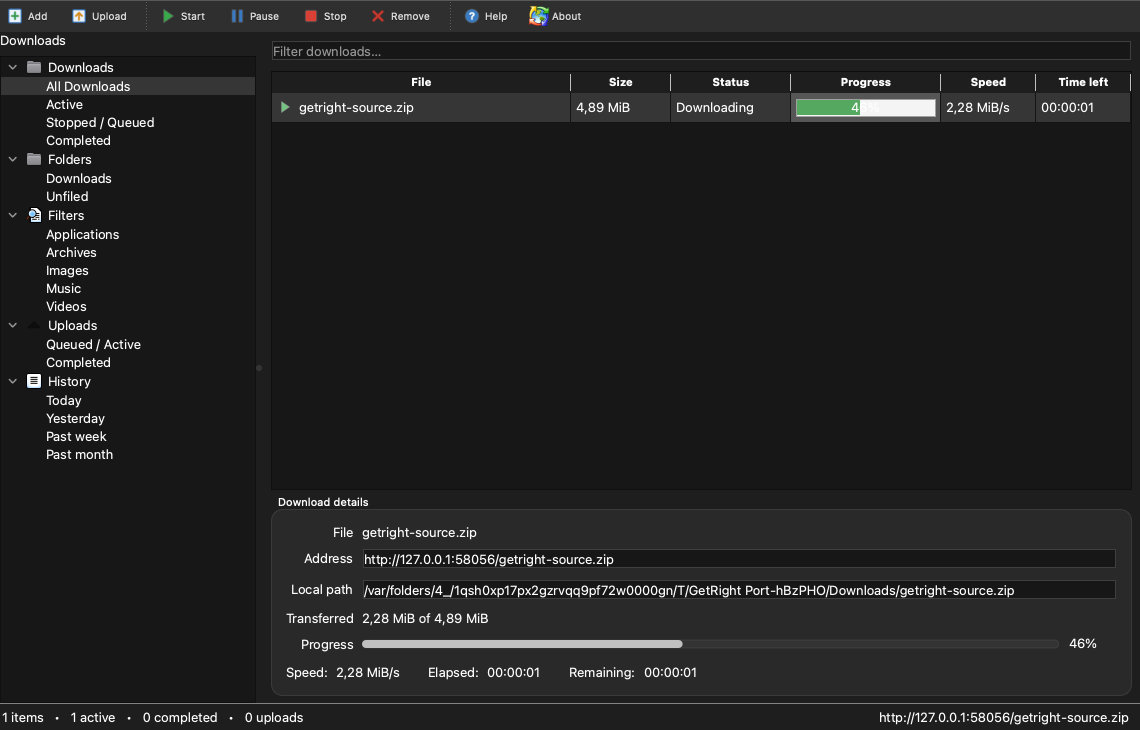
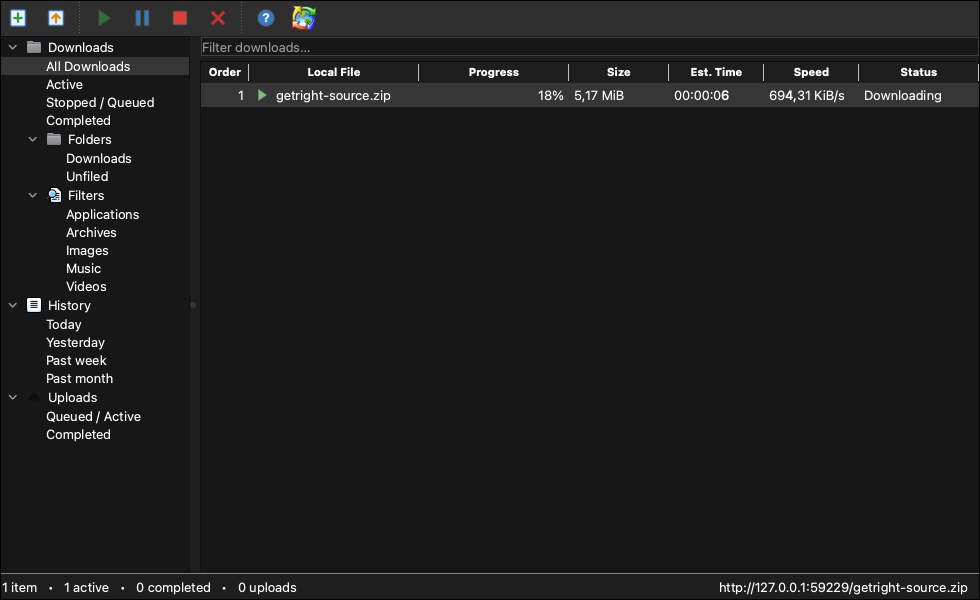
Document transfer behavior and refresh the interface gallery
Explain validated resume, multiple selection, storage recovery, installation, and completion
tips. Show current bordered screenshots and a live download GIF in the README and website,
with a still-image fallback for reduced motion.

diff --git a/site/index.html b/site/index.html
@@ -56,7 +56,7 @@
             <span class="window-dots"><i></i><i></i><i></i></span>
             <span>GetRight Port · macOS</span><span class="frame-live">LIVE TRANSFER</span>
           </div>
-          <img src="assets/port-light.png" alt="GetRight Port downloading a source archive on macOS in its native light appearance" width="1140" height="730" fetchpriority="high">
+          <img src="assets/port-light.png" alt="GetRight Port downloading a source archive on macOS in its native light appearance" width="980" height="600" fetchpriority="high">
         </figure>
         <div class="time-ticket"><span class="ticket-arrow">↳</span>
           <div><strong>Same little icon.</strong><span>A different era.</span></div>
@@ -126,22 +126,28 @@
           Native macOS controls, your choice of light or dark, and the details that matter.</p>
       </div>
       <div class="gallery-tabs" role="group" aria-label="Choose an application screenshot">
-        <button type="button" class="selected" data-view="light" aria-pressed="true">macOS · Light</button>
+        <button type="button" class="selected" data-view="download" aria-pressed="true">Live download</button>
+        <button type="button" data-view="light" aria-pressed="false">macOS · Light</button>
         <button type="button" data-view="dark" aria-pressed="false">macOS · Dark</button>
+        <button type="button" data-view="classic" aria-pressed="false">Classic style</button>
         <button type="button" data-view="progress" aria-pressed="false">Download details</button>
+        <button type="button" data-view="finished" aria-pressed="false">Download finished</button>
       </div>
       <figure class="gallery">
-        <a id="gallery-link" href="assets/port-light.png" target="_blank" rel="noopener">
-          <img id="gallery-image" src="assets/port-light.png" alt="GetRight Port in the native macOS light appearance, downloading a source archive" width="1140" height="730" loading="lazy">
+        <a id="gallery-link" href="assets/port-download.gif" target="_blank" rel="noopener">
+          <picture>
+            <source id="gallery-static" media="(prefers-reduced-motion: reduce)" srcset="assets/port-progress.png">
+            <img id="gallery-image" src="assets/port-download.gif" alt="A real GetRight download advancing from start to finish with a live progress bar" width="470" height="205" style="max-width:470px;aspect-ratio:470 / 205" loading="lazy">
+          </picture>
         </a>
-        <figcaption><span id="gallery-caption">Native macOS, light theme. Click the image to see it full size.</span>
-          <span class="gallery-counter" id="gallery-counter">01 / 03</span></figcaption>
+        <figcaption><span id="gallery-caption">A real HTTP download, from start to finish. The animation loops.</span>
+          <span class="gallery-counter" id="gallery-counter">01 / 06</span></figcaption>
       </figure>
       <div class="feature-list">
         <div><span>01</span><h3>Pick up where you paused.</h3>
           <p>HTTP/HTTPS downloads, partial files, pause and resume, and a persistent queue.</p></div>
         <div><span>02</span><h3>Keep the details in sight.</h3>
-          <p>Progress, speed, remaining time, destination, and history. One double-click away.</p></div>
+          <p>Progress, speed, remaining time, destination, and history. One click away.</p></div>
         <div><span>03</span><h3>Let it work in the background.</h3>
           <p>A familiar menu bar icon, live speeds, and controls to pause or resume all transfers.</p></div>
         <div><span>04</span><h3>Make it feel like yours.</h3>

diff --git a/site/app.js b/site/app.js
@@ -4,23 +4,44 @@
 // Description: Screenshot gallery and published release package list.
 
 const views = {
+  download: {
+    file: "port-download.gif",
+    staticFile: "port-progress.png",
+    alt: "A real GetRight download advancing from start to finish with a live progress bar",
+    caption: "A real HTTP download, from start to finish. The animation loops.",
+    counter: "01 / 06",
+    width: 470,
+    height: 205,
+  },
   light: {
     file: "port-light.png",
     alt: "GetRight Port in the native macOS light appearance during a live download",
     caption: "Native macOS, light theme. Click the image to see it full size.",
-    counter: "01 / 03",
+    counter: "02 / 06",
   },
   dark: {
     file: "port-dark.png",
     alt: "GetRight Port in the native macOS dark appearance during a live download",
     caption: "Native macOS, dark theme. The same queue, a different appearance.",
-    counter: "02 / 03",
+    counter: "03 / 06",
+  },
+  classic: {
+    file: "port-classic.png",
+    alt: "GetRight Port with its classic Windows XP style, ordered file list, and icon toolbar",
+    caption: "Classic style on macOS, inspired by the original Download Status window.",
+    counter: "04 / 06",
+  },
+  finished: {
+    file: "port-finished.png",
+    alt: "GetRight download completion tip with file, time, speed, and folder controls",
+    caption: "Download finished. The tip appears near the menu bar icon without taking focus.",
+    counter: "06 / 06",
   },
   progress: {
     file: "port-progress.png",
     alt: "A live GetRight Port download progress window with speed and remaining time",
-    caption: "Double-click a transfer for its file, progress, speed, and timing.",
-    counter: "03 / 03",
+    caption: "Click a transfer for its file, progress, speed, and timing.",
+    counter: "05 / 06",
   },
 };
 
@@ -34,6 +55,9 @@ for (const button of document.querySelectorAll("[data-view]")) {
     const image = document.querySelector("#gallery-image");
     image.src = `assets/${view.file}`;
     image.alt = view.alt;
+    image.style.maxWidth = view.width ? `${view.width}px` : "100%";
+    image.style.aspectRatio = `${view.width || 980} / ${view.height || 600}`;
+    document.querySelector("#gallery-static").srcset = `assets/${view.staticFile || view.file}`;
     document.querySelector("#gallery-link").href = image.src;
     document.querySelector("#gallery-caption").textContent = view.caption;
     document.querySelector("#gallery-counter").textContent = view.counter;

diff --git a/site/style.css b/site/style.css
@@ -64,7 +64,7 @@ h1 em, h2 em { font-family: var(--serif); font-weight: 400; }
 .orbit-two { width: 80%; height: 117%; top: -9%; left: 15%; transform: rotate(22deg); }
 .hero-visual::before { content: ""; position: absolute; width: 84%; height: 84%;
   background: #e5edce; border-radius: 50%; left: 10%; top: 6%; z-index: -2; }
-.app-frame { margin: 0; overflow: hidden; background: white; border: 1px solid #b4bbae;
+.app-frame { margin: 0; overflow: hidden; background: white; border: 1px solid #7b8875;
   border-radius: 8px; box-shadow: 0 24px 50px #1b332524; }
 .hero-app { transform: rotate(-2deg); position: relative; }
 .frame-bar { display: flex; align-items: center; justify-content: space-between; gap: 7px;
@@ -132,7 +132,8 @@ h2 { font-size: clamp(35px, 3.5vw, 50px); line-height: 1.14; letter-spacing: -1.
 .gallery { margin: 0; padding: 36px 60px 0; background: #e4e8dc;
   border: 1px solid #d3d8c9; border-radius: 5px; }
 .gallery a { display: block; min-width: 0; }
-.gallery img { width: 100%; max-height: 650px; aspect-ratio: 1140 / 730; object-fit: contain;
+.gallery img { margin-inline: auto; }
+.gallery img { width: 100%; max-height: 650px; aspect-ratio: 980 / 600; object-fit: contain;
   object-position: center; filter: drop-shadow(0 10px 20px #1c302322); }
 .gallery figcaption { display: flex; justify-content: space-between; gap: 20px; padding-block: 22px;
   font-size: 10px; color: #5b6e51; }

diff --git a/tests/site.py b/tests/site.py
@@ -56,7 +56,8 @@ class WebsiteTests(unittest.TestCase):
         self.assertGreaterEqual(len(self.page.images), 5)
         for image in self.page.images:
             self.assertIn("alt", image)
-        for name in ("port-light.png", "port-dark.png", "port-progress.png"):
+        for name in ("port-light.png", "port-dark.png", "port-classic.png",
+                     "port-progress.png", "port-finished.png", "port-download.gif"):
             self.assertTrue((ROOT / "assets" / name).is_file(), name)
         readme = (ROOT.parent / "README.md").read_text()
         self.assertLess(readme.index("site/assets/port-light.png"), readme.index("## Features"))

diff --git a/README.md b/README.md
@@ -13,6 +13,8 @@ filters on the left, a task list, a toolbar, detailed progress, and menus.
 
 ![GetRight Port running on macOS with the native light appearance](site/assets/port-light.png)
 
+![A real GetRight download with an advancing progress bar](site/assets/port-download.gif)
+
 ## Features
 
 - Download filters by status, folder, and common file types.
@@ -23,23 +25,25 @@ filters on the left, a task list, a toolbar, detailed progress, and menus.
 - Pause and resume downloads while preserving partial files.
 - Right-click a transfer for Start, Pause, Stop, Remove, Download Again, Copy URL, and Move To.
 - Move downloads to another folder, preserving partial files and resuming active transfers.
-- Double-click a transfer to open a window with its file, address, destination,
+- Click a transfer to open a window with its file, address, destination,
   progress, speed, elapsed time, and estimated time remaining.
-- Details panel with URL, local destination, size, percentage, speed, and timing.
+- Optional details panel with URL, local destination, progress, speed, timing, and saved errors.
+- Download completion tips with file and folder actions, displayed near the menu bar icon.
 - Window title with combined progress, total active speed, and active/total counts for
   downloads and uploads. Progress includes all transfers, regardless of the selected filter;
   it shows "size unknown" while any unfinished transfer has an unknown size.
 - System, Light, and Dark themes saved in user preferences.
 - Native macOS appearance or styles inspired by Windows 11 and Windows XP.
-- File, Downloads, View, and Help menus with keyboard shortcuts.
+- File, Edit, Downloads, View, and Help menus with keyboard shortcuts.
 
 ## Data, history, and settings
 
 The application stores its data in `~/.getright/`:
 
-- `settings.json`: theme, appearance, window geometry, and last download folder.
+- `settings.json`: theme, appearance, window geometry, last folder, and display preferences.
 - `history.json`: queue and history, including ID, name, URL, destination, transfer type,
-  status, bytes received, total size, added and completion dates, and active duration.
+  status, bytes received, total size, added and completion dates, active duration,
+  HTTP validators, and the last error.
 
 JSON files use atomic writes. History is saved every two seconds when there are changes
 and when the application exits. Active transfers are restored as paused; use **Start**
@@ -50,14 +54,32 @@ records local bytes for incomplete downloads.
 An installation without history starts with an empty list. To use another data directory,
 set `GETRIGHT_PORT_DATA_DIR`; both JSON files are stored there.
 
-Resuming a download requires the server to support HTTP Range requests.
-Stopped HTTP PUT uploads restart from the beginning. Authentication, FTP, BitTorrent,
+A safe resume requires HTTP Range support and a saved strong ETag or Last-Modified validator.
+The app sends If-Range and checks the returned byte range. Downloads without a usable validator,
+including older history entries, restart after a successful full response. HTTP errors preserve
+existing files; invalid ranges fail without appending data. Local write failures mark the task
+as failed, and the queue proceeds to the next eligible transfer.
+
+Choosing an existing file in Add requests replacement, rather than treating it as a partial
+for that URL. Existing contents remain untouched until a valid download response arrives.
+
+Unreadable JSON is preserved and a recovery message remains visible in the window.
+Use **File > Open Data Folder**, quit the app, and keep a backup of the affected file.
+Repair it or rename it with a `.broken` suffix, then reopen the app to create a fresh file.
+Renaming `history.json` starts an empty queue; downloaded files remain on disk.
+
+Paused and stopped HTTP PUT uploads restart from the beginning. Authentication, FTP, BitTorrent,
 segmented downloads, and browser integration are not implemented.
 
-## Requirements
+## Installation
 
-- macOS 15 or later on Apple Silicon for release packages.
-- Xcode Command Line Tools.
+Release packages require macOS 15 or later on Apple Silicon. Open the DMG and copy the app
+to Applications, or extract the application ZIP. Packages include Qt and its runtime dependencies.
+The app is ad-hoc signed and is not Apple-notarized.
+
+## Build requirements
+
+- macOS with Xcode Command Line Tools.
 - CMake 3.21 or later and Qt 6.8 or later, with Widgets and Network.
 - `macdeployqt` and `hdiutil` to create the self-contained DMG.
 
@@ -88,8 +110,12 @@ make osx QT_PREFIX=/path/to/qt
 After building, verify persistence with isolated temporary data:
 
 ```sh
+ctest --test-dir build --output-on-failure
 python3 tests/persistence.py
 ```
+
+The CTest suite exercises a local HTTP server, resume validation, disk write failures,
+queue progression, multiple selection, transfer window controls, and completion tips.
 
 ## Create the installer
 
@@ -98,7 +124,9 @@ make osx-dmg
 ```
 
 This command copies the required Qt frameworks and plugins into the bundle and creates
-`build/getright-port-macos-arm64.dmg`. The DMG includes dynamic Qt dependencies;
+`build/getright-port-macos-arm64.dmg`. The packaged app is staged separately at
+`build/package/getright-port.app`; the development bundle stays linked to the local Qt install.
+The DMG includes dynamic Qt dependencies;
 project source code and license notices are available in this repository.
 
 ## GitHub builds and releases
@@ -130,21 +158,38 @@ the Windows styles use matching palettes and button colors.
 **Add** prefills its URL field with a valid HTTP/HTTPS address from the clipboard.
 Review or edit it before confirming.
 
-Use **Pause** to suspend a download and **Start** to resume it. Double-click a row to open
-the transfer progress window. Right-click a row to control the transfer or copy its URL.
+Use **Pause** to suspend a download and **Start** to resume it. Start, Pause, Stop, and Remove
+apply to all selected rows. Start schedules the selection while another transfer is active.
+Click a single row to open the transfer window; modifier-clicks keep multiple selection available.
+The compact window provides Options, Pause/Resume, and Cancel. Cancel stops its transfer and
+closes the window. Options includes a live speed graph, Copy URL, and Show in Finder.
+**View > Show transfer details** enables the main details panel; **Show toolbar labels**
+adds labels to the compact icon toolbar. Both choices persist.
+
+Errors remain available in transfer details and history. Completed files offer **Open File**
+and **Show in Finder** in the context menu. Right-click a row to control the transfer or copy
+its URL.
+
 **Move To** selects another destination folder and moves any existing partial or completed
 file there. An active download pauses during the move and resumes afterward. Existing
 destination files are preserved; choose another folder if the name is already in use.
 If the move fails, an active download stays paused at its original destination.
-**Download Again** queues a completed download from the beginning, replacing the existing
-file when the new transfer starts. The restart request persists between sessions.
+**Download Again** queues a completed download from the beginning, replacing existing contents
+once a successful response is validated. The restart request persists between sessions.
 
 **Upload** asks for a local file and an HTTP/HTTPS destination;
 select the task and press **Start** to send it using `PUT`.
 
 The executable accepts `--screenshot path.png` to save the current interface.
 Add `--progress-window` to capture the progress window for the first transfer in the list.
-The `make screenshots` target generates a local screenshot when needed.
+Install `ffmpeg` with `brew install ffmpeg`, then run `make screenshots` in a graphical macOS
+session to regenerate the five still captures and animated download GIF in `site/assets/`.
+The capture tool uses a real source archive, a local HTTP server, and isolated temporary data.
+Every captured frame has a one-pixel black outline.
+
+<img src="site/assets/port-progress.png" alt="Compact GetRight download window" width="470">
+
+<img src="site/assets/port-finished.png" alt="Download completion tip" width="320">
 
 ## Background transfers and menu bar icon
 
@@ -157,6 +202,11 @@ Right-click the icon for **Open**, **Pause All**, **Resume All**, and **Close**.
 **Open** always displays the main window. **Pause All** pauses active and queued transfers,
 keeping partial downloads. **Resume All** schedules paused and queued downloads and uploads,
 one at a time. Stopped and failed transfers require **Start**. **Close** quits the application.
+
+A completed download shows a tip near the menu bar icon without taking focus. Click its link
+or icon to open the file, or its folder button to reveal the file in Finder. The tip disappears
+after fifteen seconds; right-click it and select **Keep visible** to retain it. Downloads do not
+open automatically.
 
 Use **File > Exit** or **Cmd+Q** to quit the application and save its state.
 On desktops without a system tray, closing the window exits the application.

diff --git a/site/assets/SOURCES.md b/site/assets/SOURCES.md
@@ -8,9 +8,17 @@
 - `getright-windows-progress.gif`: historical Windows download window from
   https://www.getright.com/images/getright-file-download.gif.
 - Historical screenshot context: https://www.getright.com/screens.html.
-- `port-light.png`, `port-dark.png`, and `port-progress.png`: captures of the compiled
-  GetRight Port v1.0.1 transferring an actual source archive over a local HTTP connection.
+- `port-light.png`, `port-dark.png`, `port-classic.png`, `port-progress.png`, and
+  `port-finished.png`: captures of the compiled GetRight Port v1.0.1 transferring an actual
+  source archive over a local HTTP connection and displaying its completion tip.
+  Run `make screenshots` in a graphical macOS session to regenerate these images.
   These captures use an isolated temporary queue and do not include personal history.
+  The capture tool draws a one-pixel black outline around every image for white documentation
+  backgrounds.
+
+- `port-download.gif`: a looping recording of a real local HTTP download from start to finish.
+  Frames come from the same compiled application and are encoded with ffmpeg. The website
+  displays a still capture when the viewer prefers reduced motion.
 
 The GetRight name, original logo, and Windows screenshots belong to Headlight Software
 and their respective rights holders. They illustrate the original software and are not
